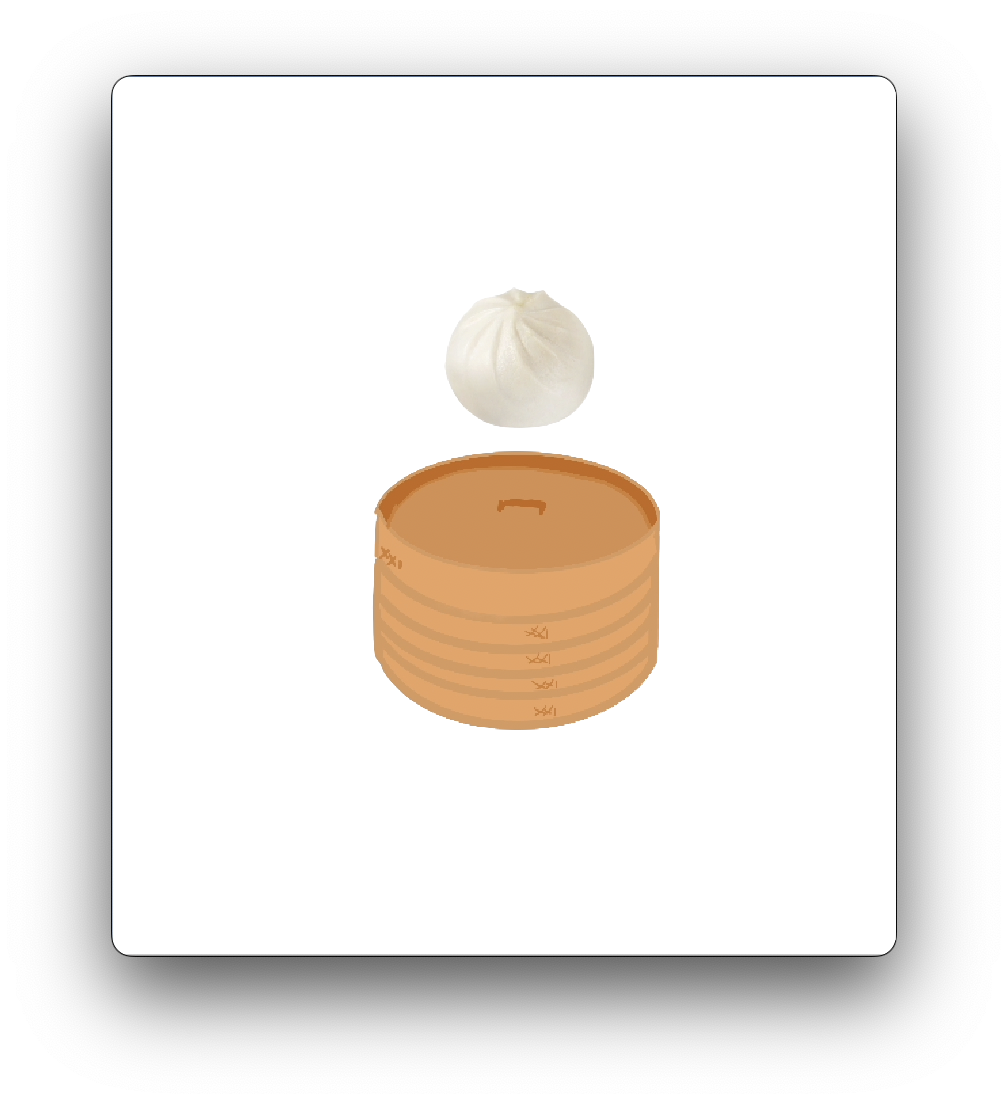
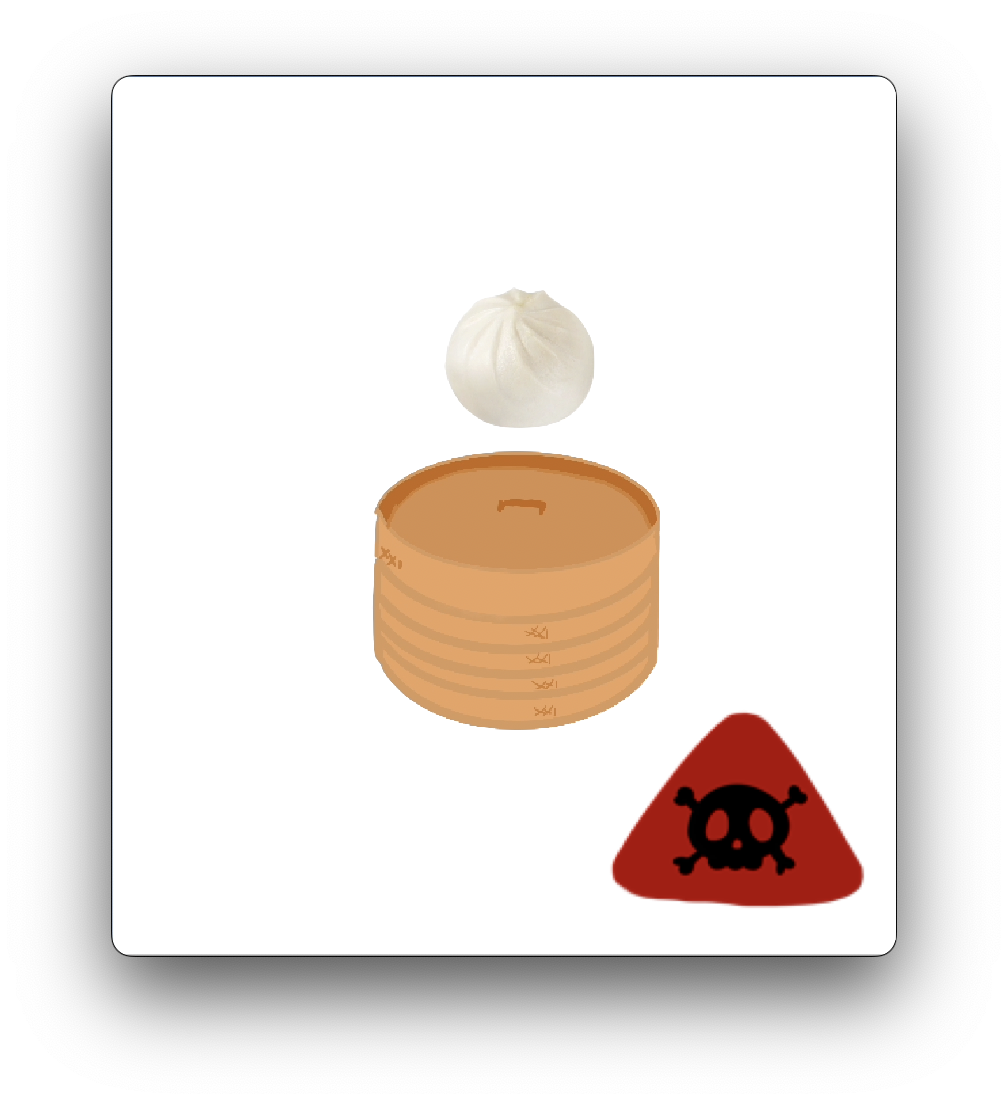
Added skull to animation

Changed region(s): [[0.5843, 0.6467, 0.8611, 0.8315]]

diff --git a/Assets/Scripts/AllCards.cs b/Assets/Scripts/AllCards.cs
@@ -385,7 +385,7 @@ public class AllCards : MonoBehaviour
             // big round 1
             // small round 1
             CardRound cardRounda1_1 = new CardRound(20, 0, 1, 1);
-            CardRound cardRounda1_2 = new CardRound(4, 1, 1, 2);
+            CardRound cardRounda1_2 = new CardRound(10, 1, 1, 2);
             CardRound cardRounda1_3 = new CardRound(2, 2, 2, 1);
             CardRound cardRounda1_4 = new CardRound(4, 3, 2, 2);
             List<CardRound> sa11 = new List<CardRound>();
